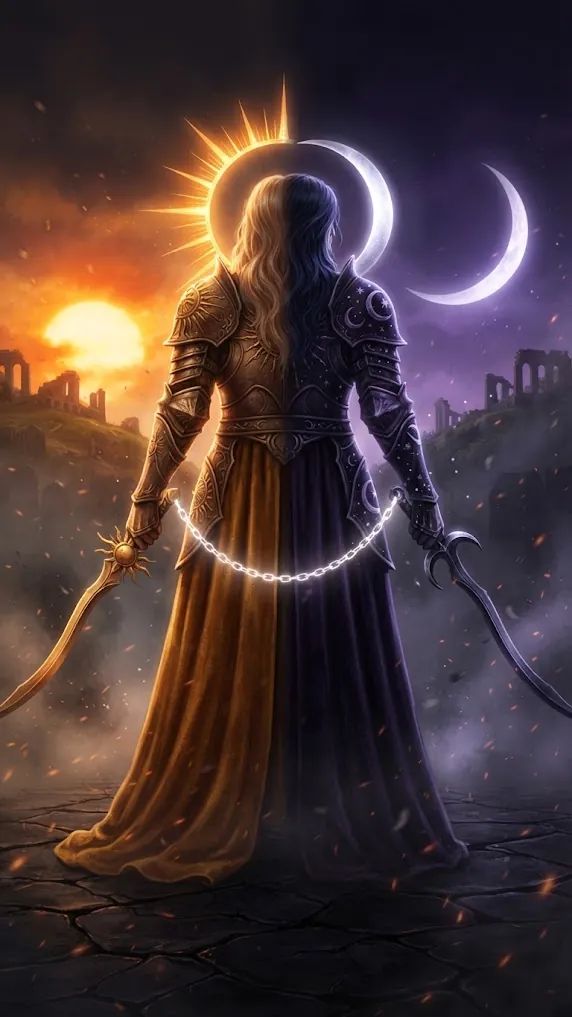
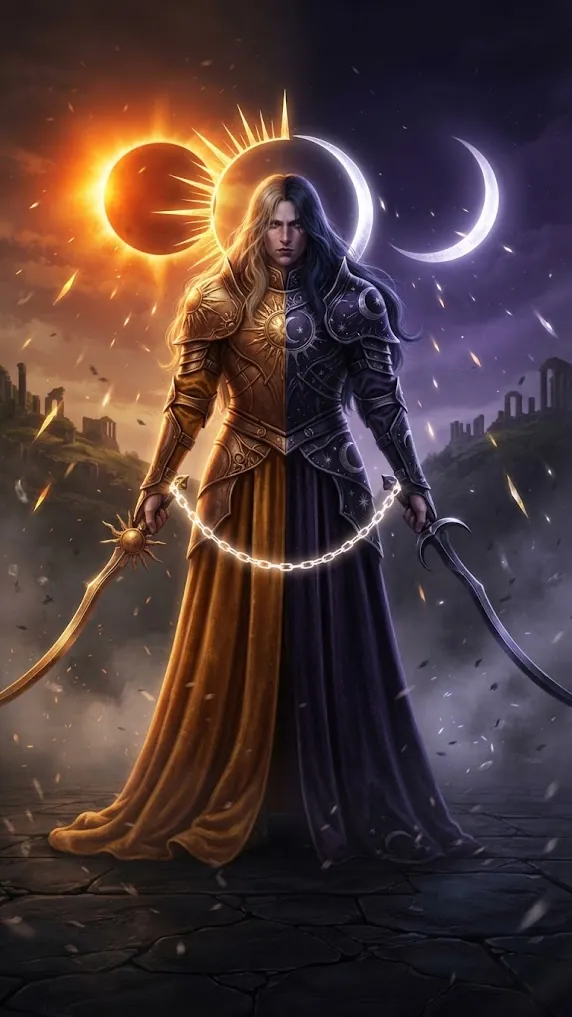
v717 : nouveau tableau des Jumeaux du Crépuscule
Claude-Session: https://claude.ai/code/session_01G3jW2e2fkjyWdrMoKXNbtm

diff --git a/sw.js b/sw.js
@@ -1,7 +1,7 @@
 // Service worker d'ABYSSAL : l'application et les données sont mises en cache
 // pour fonctionner hors ligne après une première visite. Incrémenter VERSION à
 // chaque publication pour que les joueurs reçoivent la mise à jour.
-const VERSION = 'abyssal-v716';
+const VERSION = 'abyssal-v717';
 const ART_CACHE = 'abyssal-media';  // images du jeu : gardées entre les versions
 const FONT_CACHE = 'abyssal-fonts';
 const CORE = [

diff --git a/js/config.js b/js/config.js
@@ -1,7 +1,7 @@
 // Configuration centrale du jeu : raretés, tables de tirage, boosters,
 // économie, variantes, progression. Toute la balance se règle ici.
 
-export const VERSION = 'v716'; // même numéro que sw.js : affiché dans Réglages > À propos
+export const VERSION = 'v717'; // même numéro que sw.js : affiché dans Réglages > À propos
 
 export const RARITIES = [
   { key: 'C',  name: 'Commune',     short: 'C',  color: '#A3ADBD' },

diff --git a/CLAUDE.md b/CLAUDE.md
@@ -33,7 +33,7 @@ Ce texte reprend tout ce qu'il faut savoir du projet. Ce fichier est lu automati
 - SQL : `supabase/12-serveur-de-partie.sql` (table `parties`, fonctions `partie_*` réservées à `service_role`), puis **`supabase/13-verrouillage.sql` seulement quand À propos dit « Progression gardée par le serveur »** (plus d'écriture directe des sauvegardes, profils, fiches d'ami et Épreuves ; le joueur garde le choix de son pseudo).
 
 ## 2. Routine de livraison
-1. Version : **ligne 4** de `js/config.js` **et** de `sw.js`, toujours le même numéro (`sed -i "4s/vX/vY/" js/config.js sw.js`). Actuellement **v716**.
+1. Version : **ligne 4** de `js/config.js` **et** de `sw.js`, toujours le même numéro (`sed -i "4s/vX/vY/" js/config.js sw.js`). Actuellement **v717**.
 2. Tests : `node --test tests/*.test.mjs` (367 tests, dont `tests/syntaxe.test.mjs` qui passe `node --check` sur chaque fichier de `js/` : les écrans ne sont importés par aucun autre test), `node tools/validate.mjs`. Si le combat ou l'équilibre change : `node tools/fuzz.mjs 300` (étage moyen ≈ 12 à 14 en normal).
 3. Vérification dans le navigateur avec Playwright (`/opt/node-tools/node_modules/playwright/index.mjs`, Chromium déjà installé), avec un serveur local `python3 -m http.server 8092` lancé dans le dossier. Tailles iPhone SE et iPhone 13. **L'écran d'ouverture attend un toucher** (« Touche l'écran pour entrer ») : dans les scripts, cliquer au milieu de l'écran (dans la fenêtre 390×664) avant tout le reste.
 4. Commit, push, réponse en français.
@@ -114,6 +114,7 @@ Ce texte reprend tout ce qu'il faut savoir du projet. Ce fichier est lu automati
 - Amis par pseudo : **fait en v500**. Versus Booster (mini-jeu à mise contre d'autres joueurs) : **fait en v513**. Duels des Sceaux en ligne : **fait en v519** ; Pacte en ligne : **fait en v523** ; Enchères en ligne et Cryptes entre amis : **faits en v525**. Ensuite : versus 1 contre 1 (Sceaux et combats façon Descente). Le propriétaire veut que le perdant **perde vraiment** une carte. Cadre conseillé si on le fait : mode « Duel à enjeu » séparé et consenti (duel normal sans perte à côté), mise de même rareté des deux côtés, favoris jamais mis en jeu, adversaires de niveau proche, accès après quelques jours et duels normaux (contre les comptes jetables et le trafic de cartes), uniquement entre joueurs présents ou amis ayant accepté (jamais sur une partie jouée par l'IA à la place d'un absent).
 
 ## 5. Décisions déjà prises
+- v717 (nouvelle image Gemini des Jumeaux du Crépuscule envoyée par le propriétaire) : tableau des Jumeaux remplacé (de face, moitié or et soleil, moitié nuit et lune, chaîne de lumière entre les mains ; ancienne source gardée en `store/bosses/scene-jumeaux-avant-v717-source.jpg`). À savoir : Gemini peint encore une seule silhouette partagée en deux plutôt que deux jumeaux. Vérifié dans Chromium (porte et présentation, 390 px) ; rien testé sur un vrai iPhone.
 - v716 (le propriétaire : « les tableaux sont exceptionnels ; 20 prompts pour qu’ils soient en position de combat et intégrés à la taille de carte du combat ») : **cartes de combat peintes des gardiens** prêtes à recevoir les images Gemini (`BOSS_CARD` en tête de `js/screens/duel-ui.js`, vide pour l’instant ; clé = `figKey` : les 20 gardiens, `abysse-2`, `jumeaux-nuit`). Une carte présente remplit la carte du gardien (`.has-card`, `assets/bosses/combat-<clé>.webp`) à la place du fond flou et de la figure qui déborde ; nom et aperçu des dégâts inchangés ; décodée à l’entrée du combat. Outil `python3 tools/boss-card.py <clé> <image> [décalage]` (image 3:4 recadrée en 5:7, 400 × 560 ; source `store/bosses/combat-<clé>-source.jpg`), puis ajouter la clé à `BOSS_CARD` ; 22 prompts dans `store/bosses/prompts-combat.md` (plan américain, face au joueur, bas de l’image sombre pour le nom). Vérifié dans Chromium avec une carte d’essai (390 et 375 px) ; rien testé sur un vrai iPhone.
 - v715 (10 images Gemini du propriétaire, prompts v713 11 à 20) : **les 20 gardiens ont leur tableau** (`BOSS_ART` complet). À savoir : les Jumeaux du Crépuscule sont peints de dos et se lisent comme une seule silhouette coupée en deux (prompt plus précis donné le 24 octobre 2026, à remplacer si une meilleure image arrive : `tools/boss-art.py jumeaux <image>`) ; la haute coiffe du Juge n’est pas une mitre (sommet plat, aucun signe religieux). Vérifié dans Chromium (375 px, 10 portes, 2 présentations) ; rien testé sur un vrai iPhone.
 - v714 (10 images Gemini du propriétaire, prompts v713 1 à 10) : **tableaux des gardiens 1 à 10** (`BOSS_ART` : devoreur, matriarche, roi, architecte, eclipse, essaim, bourreau, choeur, chaines, horloge ; 572 × 1017, plus d’agrandissement dans `tools/boss-art.py`). **Bourreau retouché** : les 4 cordes à nœud coulant de la potence effacées (image de pendaison ; original `store/bosses/scene-bourreau-original.jpg`, retouche `scene-bourreau-retouche.jpg`). Porte en 2:3 (`.dc-door.r-boss.has-scene`, tableau à 40 %), présentation : le texte commence à 70 % de l’écran pour laisser voir le tableau. À savoir : cadrans de l’Horloger en chiffres romains (petits). Restent les tableaux 11 à 20. Vérifié dans Chromium (390 px, 10 portes, 2 présentations) ; rien testé sur un vrai iPhone.
